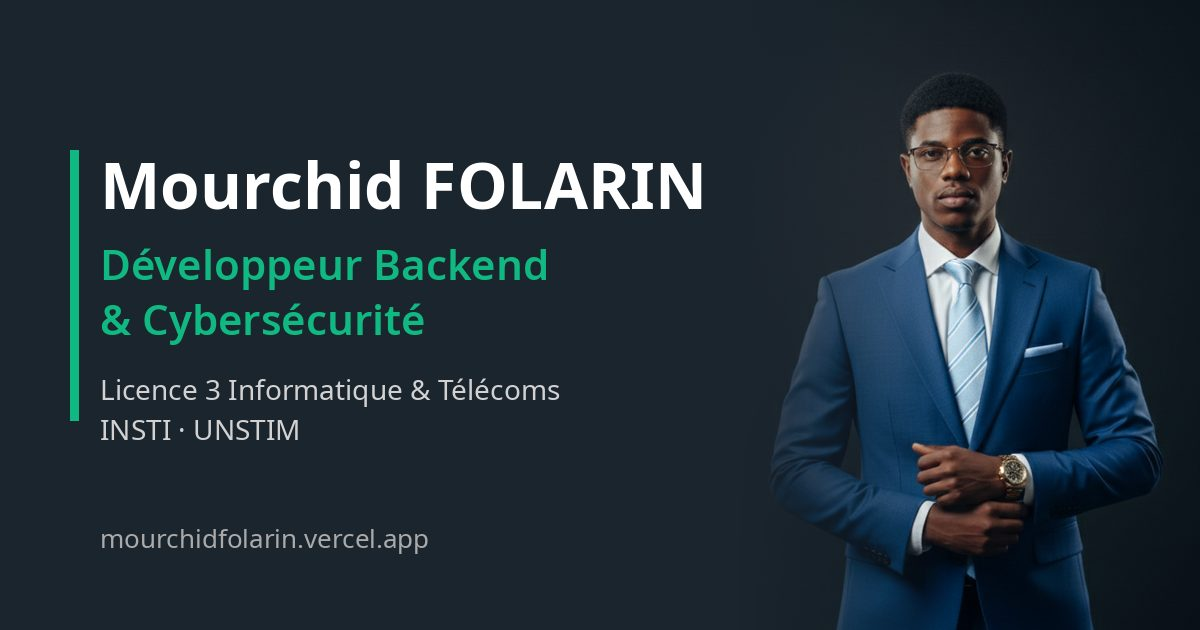
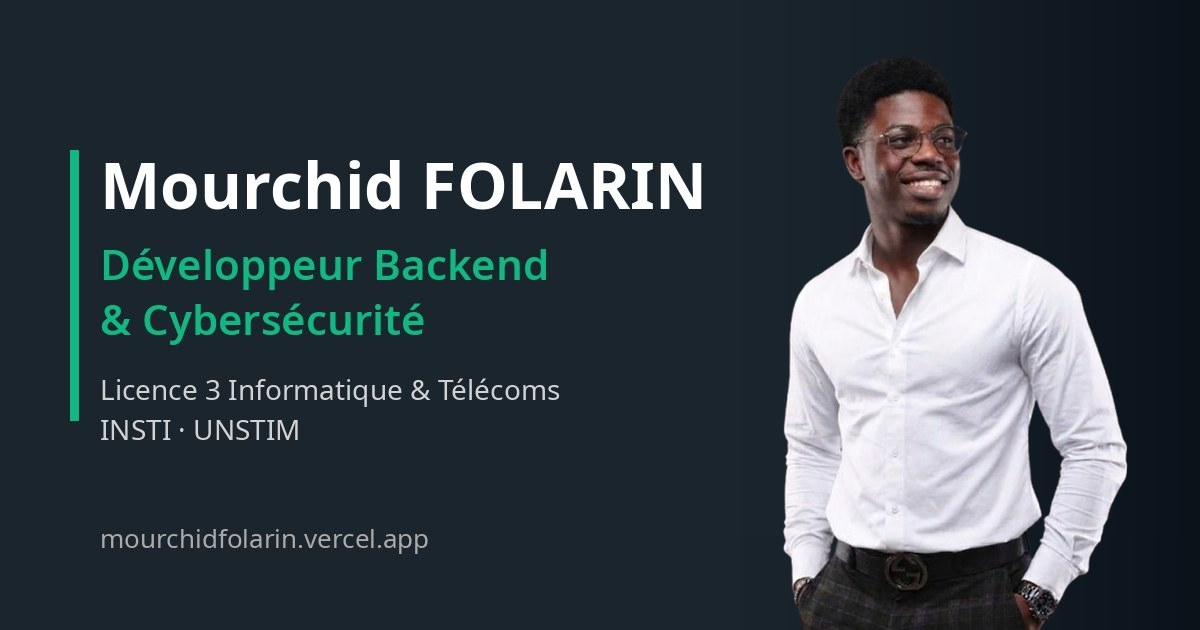
Image d'aperçu des liens avec la nouvelle photo

Changed region(s): [[0.6475, 0.0905, 0.9867, 1.0]]

diff --git a/index.html b/index.html
@@ -18,7 +18,7 @@
     <meta property="og:title" content="Mourchid FOLARIN | Développeur Backend orienté Cybersécurité &amp; Réseaux">
     <meta property="og:description"
         content="Étudiant en Licence 3 d'Informatique &amp; Télécoms (INSTI Lokossa). Développement Backend robuste (Laravel/PHP), sécurité applicative (OWASP) et systèmes réseaux Linux.">
-    <meta property="og:image" content="https://mourchidfolarin.vercel.app/assets/img/og-image.jpg">
+    <meta property="og:image" content="https://mourchidfolarin.vercel.app/assets/img/og-image.jpg?v=2">
     <meta property="og:image:width" content="1200">
     <meta property="og:image:height" content="630">
     <meta property="og:image:alt" content="Mourchid FOLARIN, Développeur Backend &amp; Cybersécurité">
@@ -28,7 +28,7 @@
     <meta property="twitter:title" content="Mourchid FOLARIN | Développeur Backend orienté Cybersécurité &amp; Réseaux">
     <meta property="twitter:description"
         content="Étudiant en Licence 3 d'Informatique &amp; Télécoms (INSTI Lokossa). Développement Backend robuste (Laravel/PHP), sécurité applicative (OWASP) et systèmes réseaux Linux.">
-    <meta property="twitter:image" content="https://mourchidfolarin.vercel.app/assets/img/og-image.jpg">
+    <meta property="twitter:image" content="https://mourchidfolarin.vercel.app/assets/img/og-image.jpg?v=2">
 
     <!-- Fonts -->
     <link rel="preconnect" href="https://fonts.googleapis.com">

diff --git a/competences.html b/competences.html
@@ -15,7 +15,7 @@
     <meta property="og:url" content="https://mourchidfolarin.vercel.app/competences">
     <meta property="og:title" content="Compétences Techniques | Mourchid FOLARIN — Backend, Cybersécurité, Réseaux">
     <meta property="og:description" content="Compétences techniques détaillées de Mourchid FOLARIN : PHP, Laravel, API REST, OWASP Top 10, Secure Coding, Linux, TCP/IP, Wireshark, Python Machine Learning et simulateur de laboratoire interactif.">
-    <meta property="og:image" content="https://mourchidfolarin.vercel.app/assets/img/og-image.jpg">
+    <meta property="og:image" content="https://mourchidfolarin.vercel.app/assets/img/og-image.jpg?v=2">
     <meta name="twitter:card" content="summary_large_image">
 
     <!-- Fonts -->

diff --git a/a-propos.html b/a-propos.html
@@ -15,7 +15,7 @@
     <meta property="og:url" content="https://mourchidfolarin.vercel.app/a-propos">
     <meta property="og:title" content="À Propos | Mourchid FOLARIN — Développeur Backend orienté Cybersécurité &amp; Réseaux">
     <meta property="og:description" content="Découvrez le profil, la philosophie, la méthodologie d'apprentissage et la vision technique de Mourchid FOLARIN, étudiant en Licence 3 Informatique &amp; Télécoms à l'INSTI Lokossa.">
-    <meta property="og:image" content="https://mourchidfolarin.vercel.app/assets/img/og-image.jpg">
+    <meta property="og:image" content="https://mourchidfolarin.vercel.app/assets/img/og-image.jpg?v=2">
     <meta name="twitter:card" content="summary_large_image">
 
     <!-- Fonts -->

diff --git a/projets.html b/projets.html
@@ -15,7 +15,7 @@
     <meta property="og:url" content="https://mourchidfolarin.vercel.app/projets">
     <meta property="og:title" content="Projets &amp; Réalisations | Mourchid FOLARIN — Backend, Cybersécurité, Réseaux">
     <meta property="og:description" content="Découvrez les 15 projets de Mourchid FOLARIN : architecture Backend Laravel, sécurité API, laboratoires CTF, prédiction IA, systèmes IoT et plateformes collaboratives.">
-    <meta property="og:image" content="https://mourchidfolarin.vercel.app/assets/img/og-image.jpg">
+    <meta property="og:image" content="https://mourchidfolarin.vercel.app/assets/img/og-image.jpg?v=2">
     <meta name="twitter:card" content="summary_large_image">
 
     <!-- Fonts -->

diff --git a/distinctions.html b/distinctions.html
@@ -15,7 +15,7 @@
     <meta property="og:url" content="https://mourchidfolarin.vercel.app/distinctions">
     <meta property="og:title" content="Compétitions &amp; Distinctions | Mourchid FOLARIN">
     <meta property="og:description" content="Podiums, hackathons nationaux et challenges CTF de Mourchid FOLARIN : CSCTF 2026 (27ᵉ sur 1 014 équipes), Technova Challenge, EPITNET Hackathon, HackByIFRI, MIABE, GENEB, Opération Nova CTF.">
-    <meta property="og:image" content="https://mourchidfolarin.vercel.app/assets/img/og-image.jpg">
+    <meta property="og:image" content="https://mourchidfolarin.vercel.app/assets/img/og-image.jpg?v=2">
     <meta name="twitter:card" content="summary_large_image">
 
     <!-- Fonts -->

diff --git a/contact.html b/contact.html
@@ -15,7 +15,7 @@
     <meta property="og:url" content="https://mourchidfolarin.vercel.app/contact">
     <meta property="og:title" content="Contact &amp; Rendez-vous | Mourchid FOLARIN">
     <meta property="og:description" content="Contactez Mourchid FOLARIN pour vos opportunités professionnelles, projets en freelance, développement Backend Laravel, audit applicatif ou réservez un créneau en direct via Cal.com.">
-    <meta property="og:image" content="https://mourchidfolarin.vercel.app/assets/img/og-image.jpg">
+    <meta property="og:image" content="https://mourchidfolarin.vercel.app/assets/img/og-image.jpg?v=2">
     <meta name="twitter:card" content="summary_large_image">
 
     <!-- Fonts -->

diff --git a/parcours.html b/parcours.html
@@ -15,7 +15,7 @@
     <meta property="og:url" content="https://mourchidfolarin.vercel.app/parcours">
     <meta property="og:title" content="Mon Parcours &amp; Leadership | Mourchid FOLARIN">
     <meta property="og:description" content="Parcours académique, leadership étudiant, engagements associatifs et vision entrepreneuriale de Mourchid FOLARIN — INSTI Lokossa, Excellence Team, Digital Innovation Club.">
-    <meta property="og:image" content="https://mourchidfolarin.vercel.app/assets/img/og-image.jpg">
+    <meta property="og:image" content="https://mourchidfolarin.vercel.app/assets/img/og-image.jpg?v=2">
     <meta name="twitter:card" content="summary_large_image">
 
     <!-- Fonts -->
